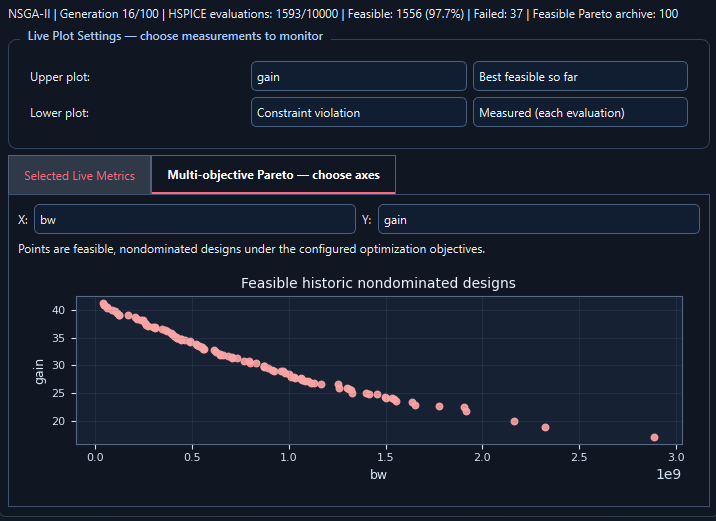
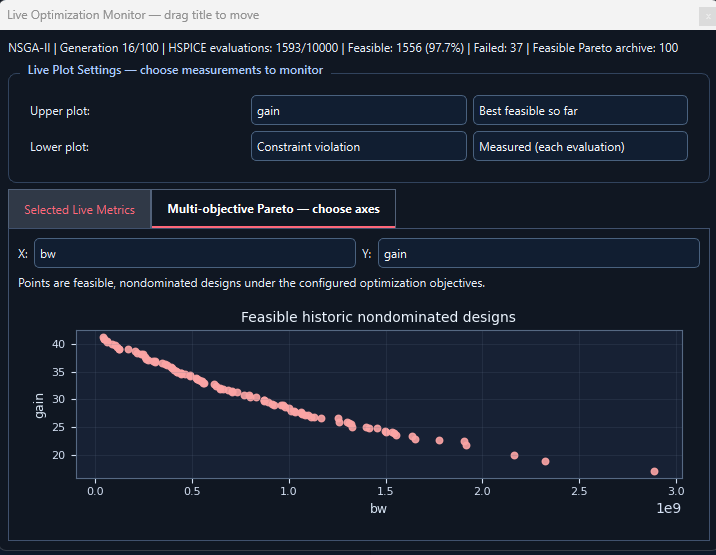
Add files via upload

diff --git a/css/styles.css b/css/styles.css
@@ -424,3 +424,6 @@ footer { background: #09131a; color: var(--on-dark-muted); }
 .shot figcaption { margin-top: 14px; font: 11px/1.5 var(--mono); color: var(--on-dark-muted); }
 
 @media (min-width: 901px) { .panel-feature { grid-column: 4; } }
+
+/* Card images */
+img.family-thumb { aspect-ratio: 2400 / 1230; height: auto; object-fit: cover; }
